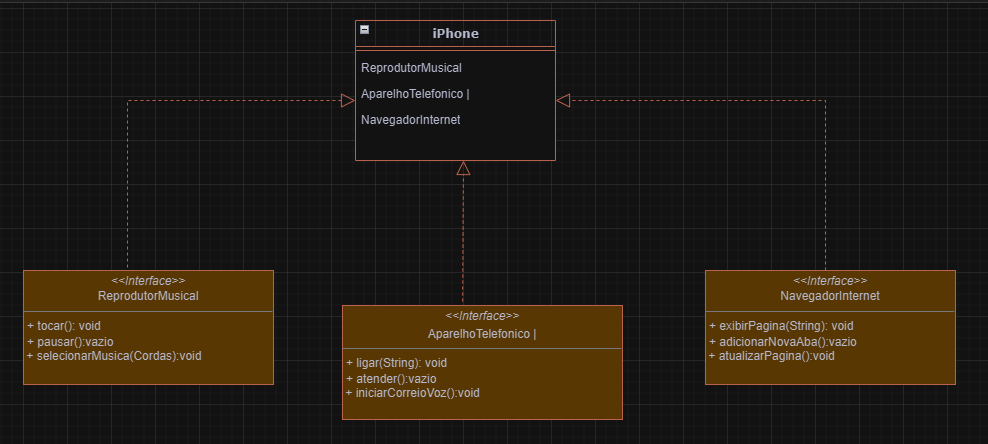
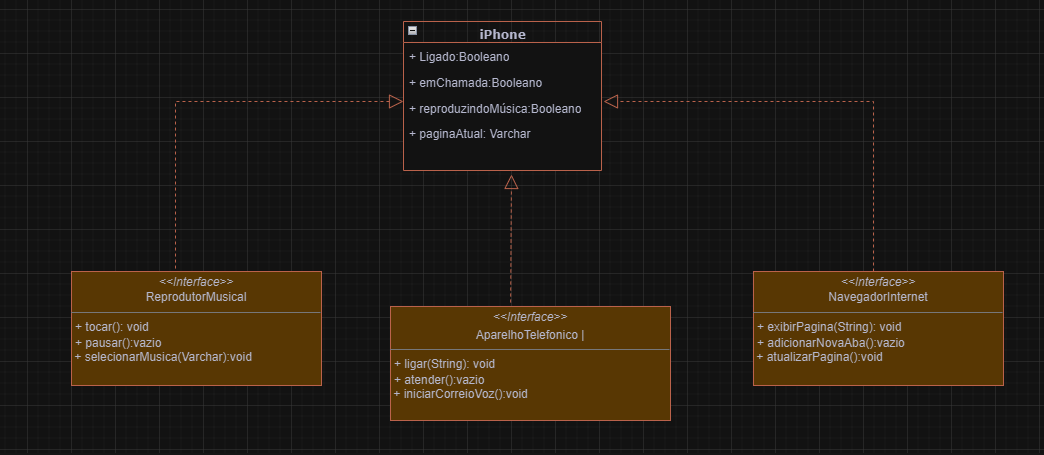
atualizando diagrama

diff --git a/src/entities/IPhone.java b/src/entities/IPhone.java
@@ -1,0 +1,49 @@
+package entities;
+
+public class IPhone implements ReprodutorMusical, AparelhoTelefonico, NavegadorInternet{
+
+    @Override
+    public void ligar() {
+
+    }
+
+    @Override
+    public void atender() {
+
+    }
+
+    @Override
+    public void iniciarCorreioVoz() {
+
+    }
+
+    @Override
+    public void exibirPagina(String url) {
+
+    }
+
+    @Override
+    public void adicionarNovaAba() {
+
+    }
+
+    @Override
+    public void adicionarpagina() {
+
+    }
+
+    @Override
+    public void tocar() {
+
+    }
+
+    @Override
+    public void pausar() {
+
+    }
+
+    @Override
+    public void selecionarMusica(String musica) {
+
+    }
+}

diff --git a/src/entities/NavegadorInternet.java b/src/entities/NavegadorInternet.java
@@ -1,0 +1,7 @@
+package entities;
+
+public interface NavegadorInternet {
+    void exibirPagina(String url);
+    void adicionarNovaAba();
+    void adicionarpagina();
+}

diff --git a/src/entities/ReprodutorMusical.java b/src/entities/ReprodutorMusical.java
@@ -1,0 +1,8 @@
+package entities;
+
+public interface ReprodutorMusical {
+    void tocar();
+    void pausar();
+    void selecionarMusica(String musica);
+
+}

diff --git a/src/entities/AparelhoTelefonico.java b/src/entities/AparelhoTelefonico.java
@@ -1,0 +1,7 @@
+package entities;
+
+public interface AparelhoTelefonico {
+    void ligar();
+    void atender();
+    void iniciarCorreioVoz();
+}

diff --git a/README.md b/README.md
@@ -14,9 +14,7 @@ Aparelho Telefônico: ligar, atender, iniciarCorrerioVoz
 Navegador na Internet: exibirPagina, adicionarNovaAba, atualizarPagina
 
 ### Modelagem UML
-    
- 
- https://drive.google.com/file/d/1oQSCXUMVz2JV8oxidum_mbBAROhii6-t/view?usp=sharing
 
+https://drive.google.com/file/d/1oQSCXUMVz2JV8oxidum_mbBAROhii6-t/view?usp=sharing    
 ![img.png](img.png)
 
